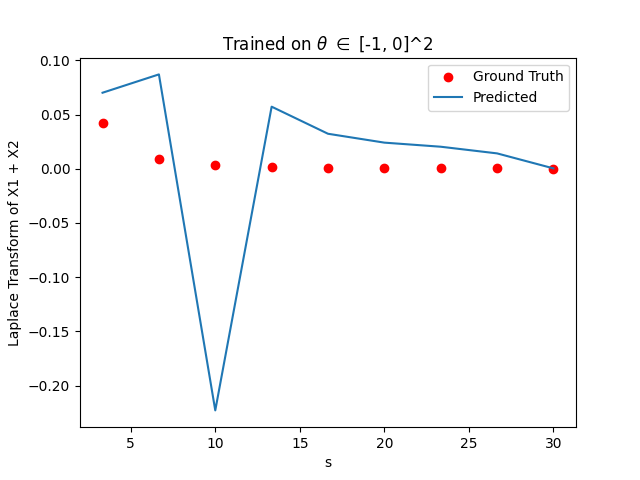
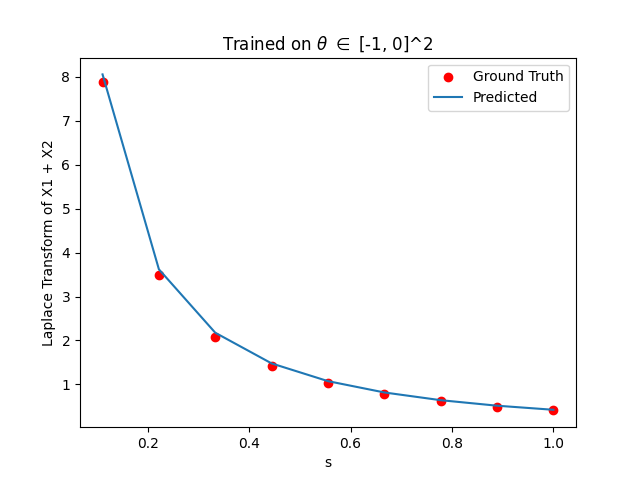
implemented the computation of first moment

diff --git a/test_2d_harrison.py b/test_2d_harrison.py
@@ -18,7 +18,7 @@ TRAIN_LB = -1
 TRAIN_UB = 0
 TRAIN_IMAG_LB = -0.5
 TRAIN_IMAG_UB = 0.5
-EVAL_LB = -30
+EVAL_LB = -1
 EVAL_UB = 0
 RETRAIN = True
 
@@ -117,6 +117,10 @@ if RETRAIN:
 else:
     mgf_trainer.load()
 
+## Compute first moment
+first_moment = mgf_trainer.get_first_moment()
+print(first_moment)
+
 ## Comparing Tail probability of X1 + X2 against ground truth
 t_lst = list(range(1, 6))
 true_prob_lst = []
@@ -128,7 +132,7 @@ for t in tqdm(t_lst):
     predicted_prob_lst.append(predicted)
 
 plt.scatter(t_lst, true_prob_lst, label = "Ground Truth", color = "red")
-plt.plot(t_lst, predicted_prob_lst, label = "Predicted")
+#plt.plot(t_lst, predicted_prob_lst, label = "Predicted")
 plt.legend()
 plt.xlabel("t")
 plt.ylabel("P(X1 + X2 > t)")

diff --git a/fit_mgf.py b/fit_mgf.py
@@ -331,6 +331,21 @@ class MGFTrainer:
         plt.clf()
         plt.close()
     
+    def get_first_moment(self):
+        s0 = torch.zeros(
+            1, self.d,
+            dtype=torch.cdouble,
+            device=self.device,
+            requires_grad=True
+        )
+        M = self.model(s0)[:, 0]   # interior MGF only
+        grad = torch.autograd.grad(
+            M.real.sum(),
+            s0,
+            create_graph=False
+        )[0]
+        return grad.real.squeeze().tolist()
+    
     def eval(self, x):
         x = x.to(device = self.device)
         with torch.no_grad():
